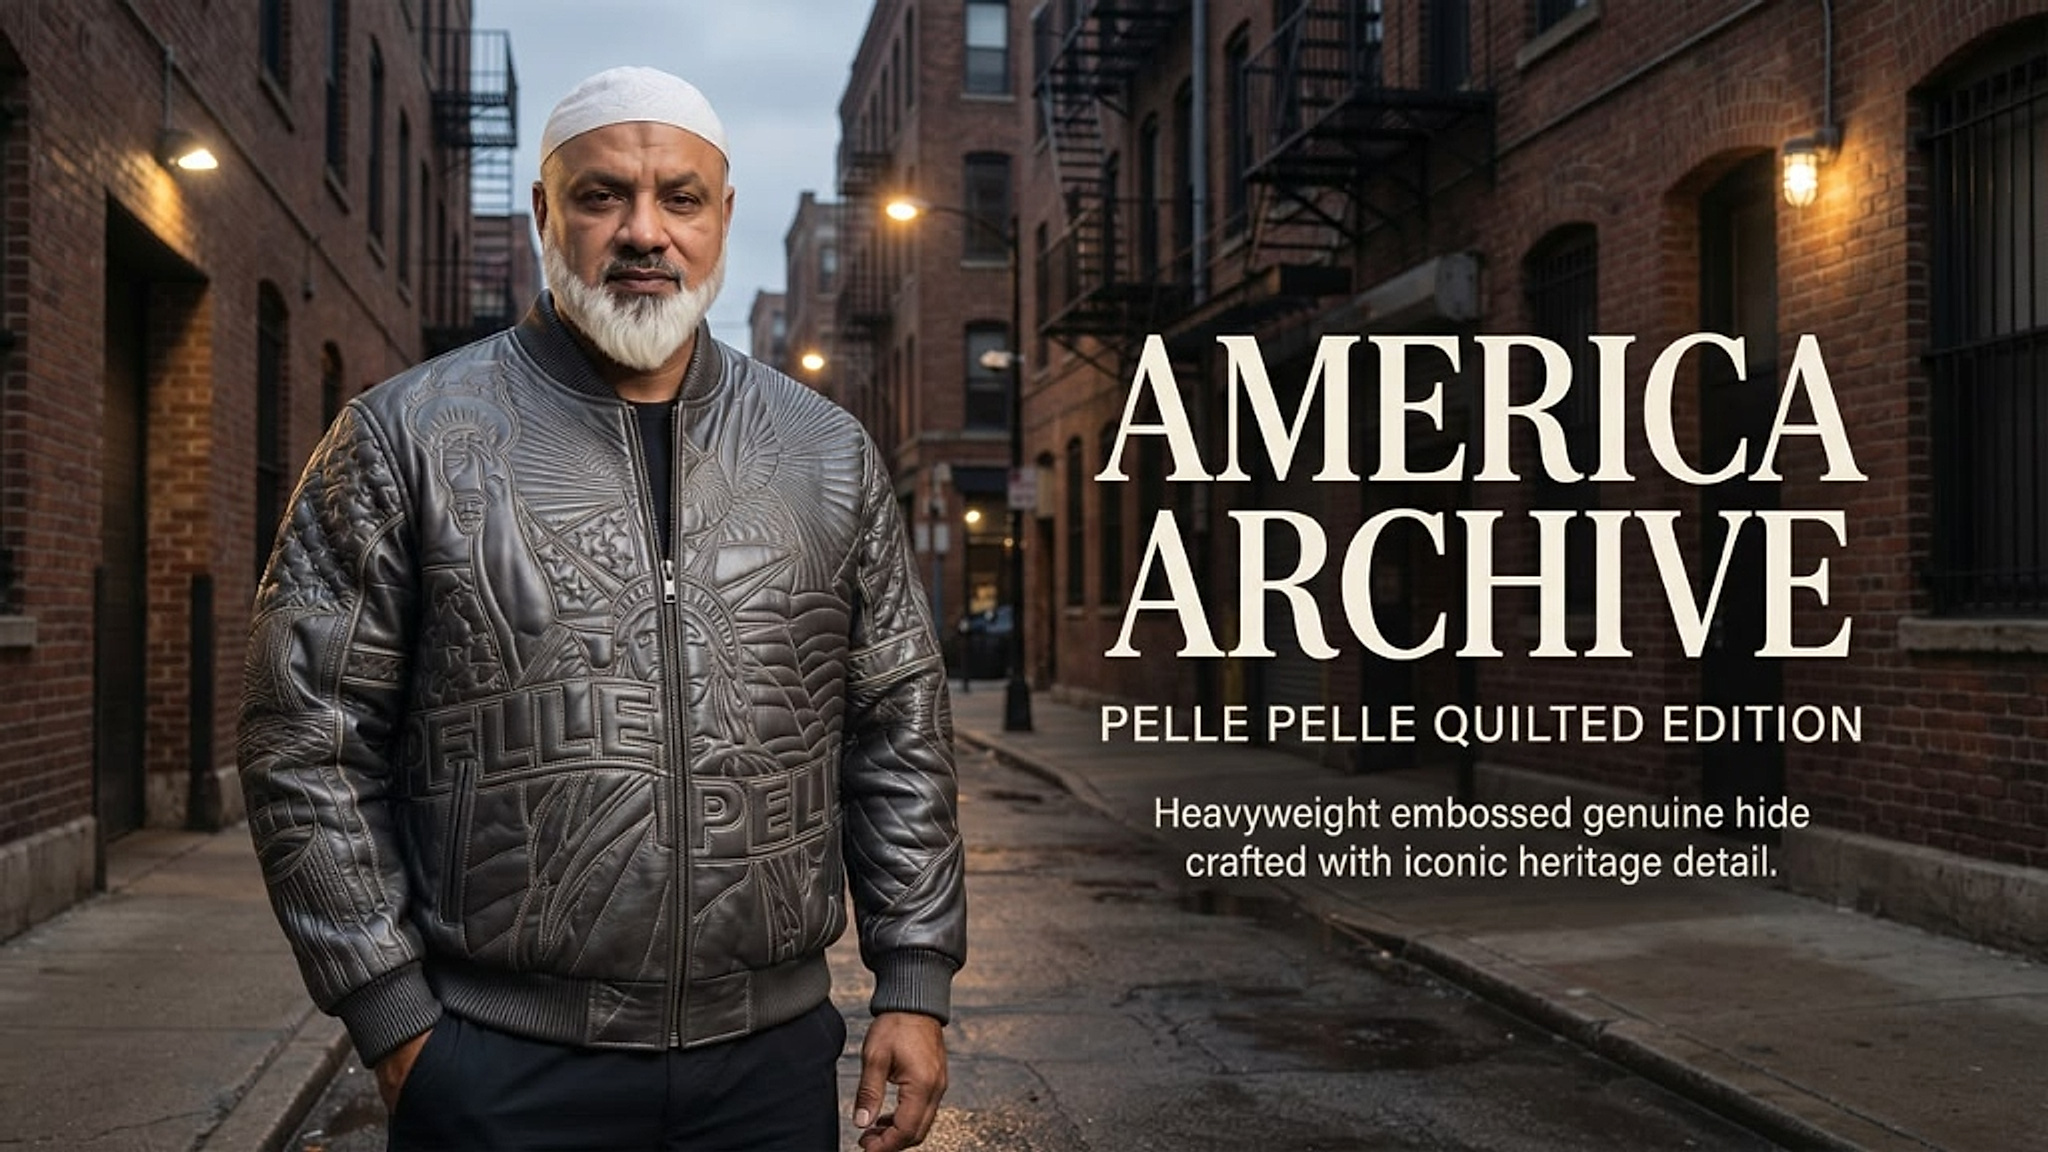
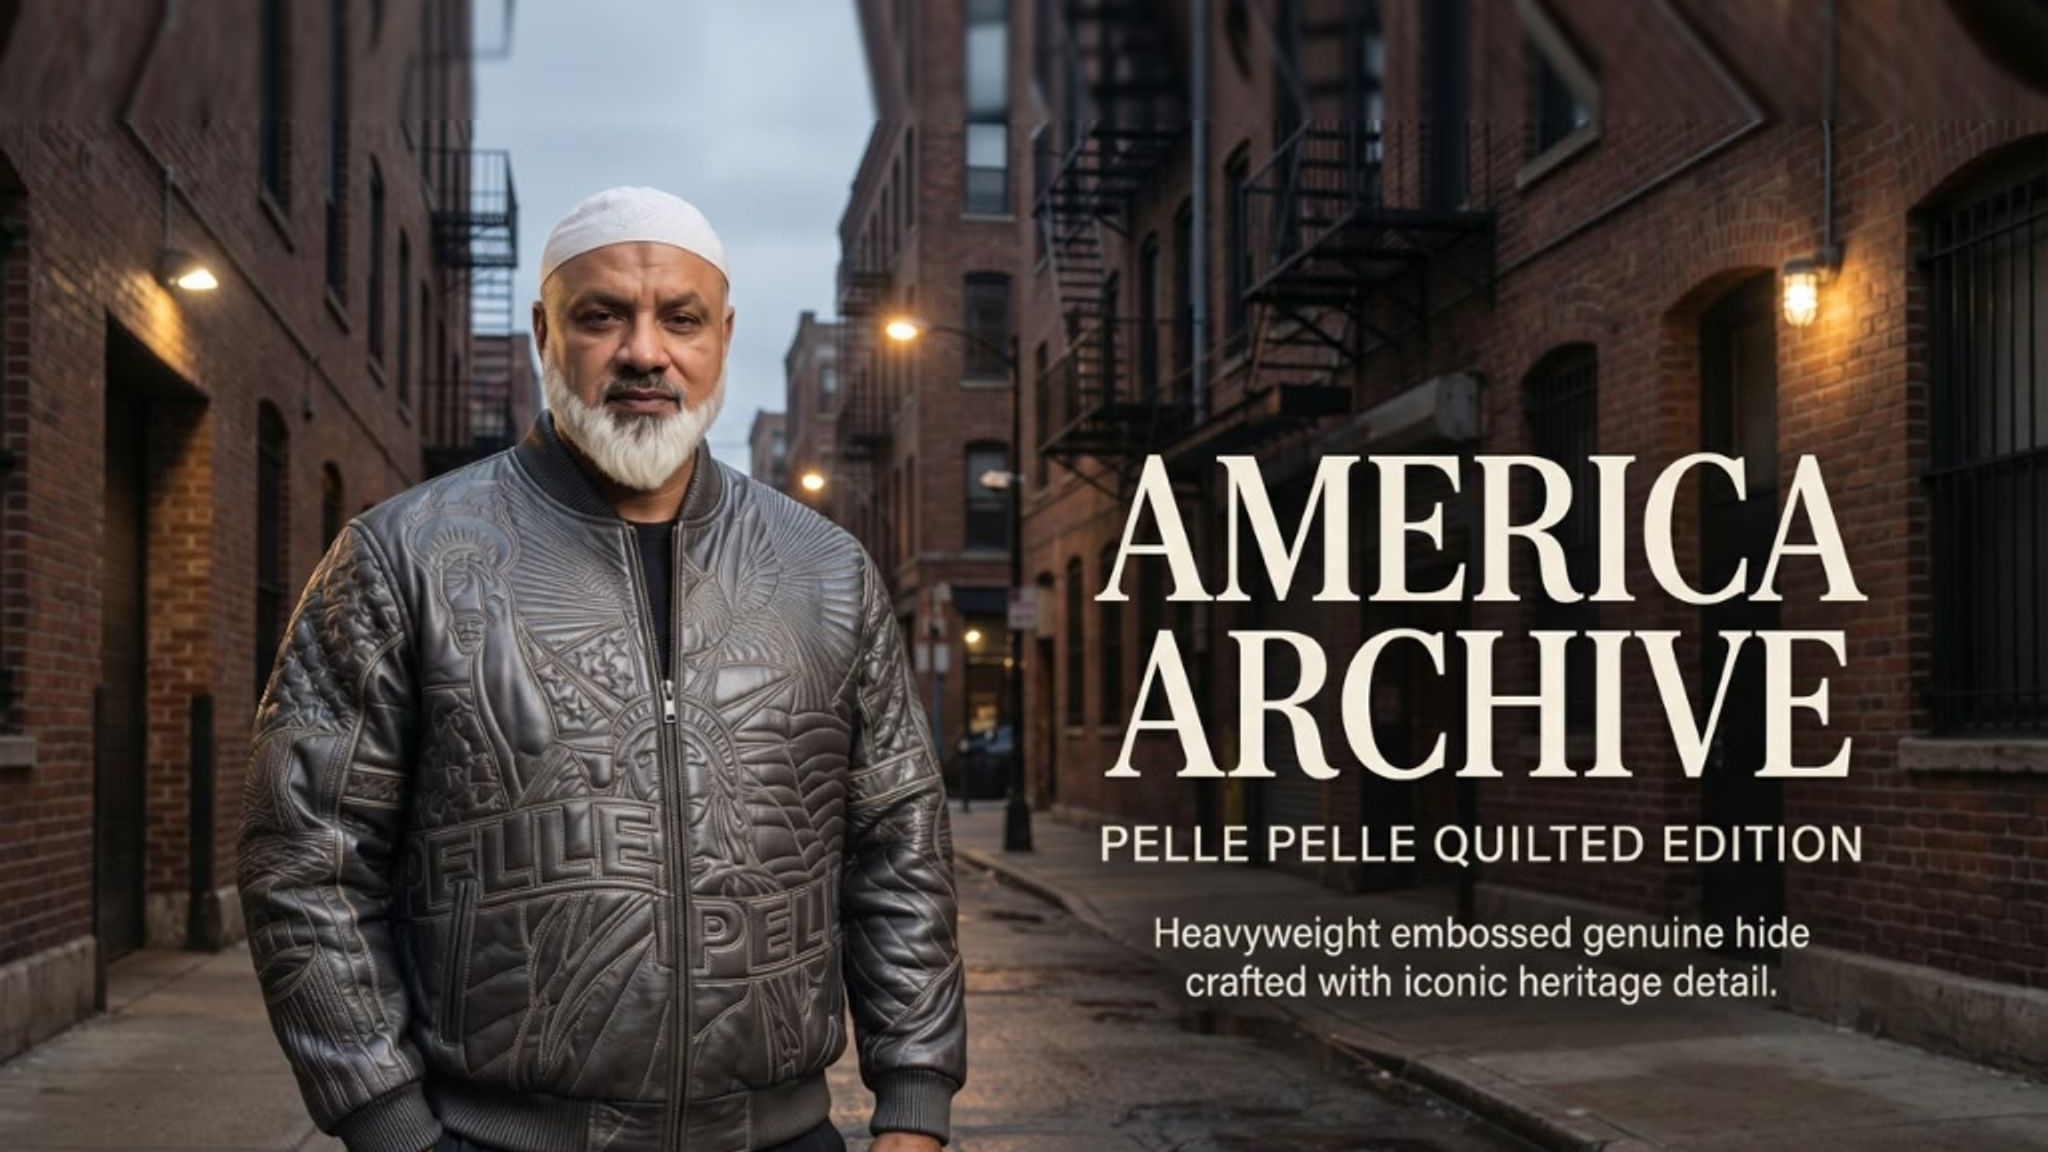
Position hero slides under transparent luxury overlay header and fix top headroom framing

diff --git a/styles.css b/styles.css
@@ -57,6 +57,7 @@
 
 html {
   scroll-behavior: smooth;
+  scroll-padding-top: 72px;
   font-size: 16px;
   -webkit-text-size-adjust: 100%;
   overflow-x: clip;
@@ -229,18 +230,28 @@ button {
 }
 
 /* ==========================================================================
-   MAIN EDITORIAL HEADER
+   MAIN EDITORIAL HEADER (TRANSPARENT LUXURY OVERLAY OVER HERO SLIDES)
    ========================================================================== */
 .site-header {
-  position: sticky;
+  position: fixed;
   top: 0;
-  z-index: 999;
+  left: 0;
+  width: 100%;
+  z-index: 1000;
+  background: linear-gradient(180deg, rgba(6, 6, 6, 0.88) 0%, rgba(6, 6, 6, 0.45) 60%, rgba(6, 6, 6, 0) 100%);
+  backdrop-filter: blur(2px);
+  -webkit-backdrop-filter: blur(2px);
+  border-bottom: 1px solid rgba(255, 255, 255, 0.08);
+  box-shadow: none;
+  transition: background 0.35s ease, backdrop-filter 0.35s ease, -webkit-backdrop-filter 0.35s ease, border-color 0.35s ease, box-shadow 0.35s ease;
+}
+
+.site-header.header-scrolled {
   background: rgba(10, 10, 10, 0.96);
   backdrop-filter: blur(16px);
   -webkit-backdrop-filter: blur(16px);
   border-bottom: 1px solid rgba(230, 211, 184, 0.18);
   box-shadow: 0 4px 20px rgba(0, 0, 0, 0.65);
-  transition: background var(--transition-fast), box-shadow var(--transition-fast);
 }
 
 .header-inner {
@@ -727,7 +738,7 @@ button {
   max-width: 100%;
   margin: 0;
   aspect-ratio: 16 / 9;
-  max-height: 85vh;
+  max-height: none;
   min-height: auto;
   background-color: #000000;
   overflow: hidden;
@@ -777,7 +788,7 @@ button {
   width: 100%;
   height: 100%;
   object-fit: cover;
-  object-position: center center;
+  object-position: center top;
   display: block;
   background-color: #000000;
   image-rendering: -webkit-optimize-contrast;
@@ -835,6 +846,7 @@ button {
 
   .hero-slide-media {
     object-fit: cover;
+    object-position: center top;
     background: #000000;
   }
 

diff --git a/script.js b/script.js
@@ -1671,6 +1671,32 @@ document.addEventListener('DOMContentLoaded', () => {
     startAutoPlay();
   }
 
+  // 12. DYNAMIC HEADER TRANSPARENCY OVER HERO SLIDES
+  // ==========================================================================
+  function initHeaderScroll() {
+    const siteHeader = document.getElementById('site-header');
+    if (!siteHeader) return;
+
+    let ticking = false;
+    function updateHeader() {
+      if (window.scrollY > 40) {
+        siteHeader.classList.add('header-scrolled');
+      } else {
+        siteHeader.classList.remove('header-scrolled');
+      }
+      ticking = false;
+    }
+
+    window.addEventListener('scroll', () => {
+      if (!ticking) {
+        window.requestAnimationFrame(updateHeader);
+        ticking = true;
+      }
+    }, { passive: true });
+
+    updateHeader();
+  }
+
   // Boot
   updateCategoryCounts();
   renderProducts();
@@ -1678,4 +1704,5 @@ document.addEventListener('DOMContentLoaded', () => {
   updateWishlistUI();
   initVarsityWardrobeRack();
   initHeroCampaignSlider();
+  initHeaderScroll();
 });
